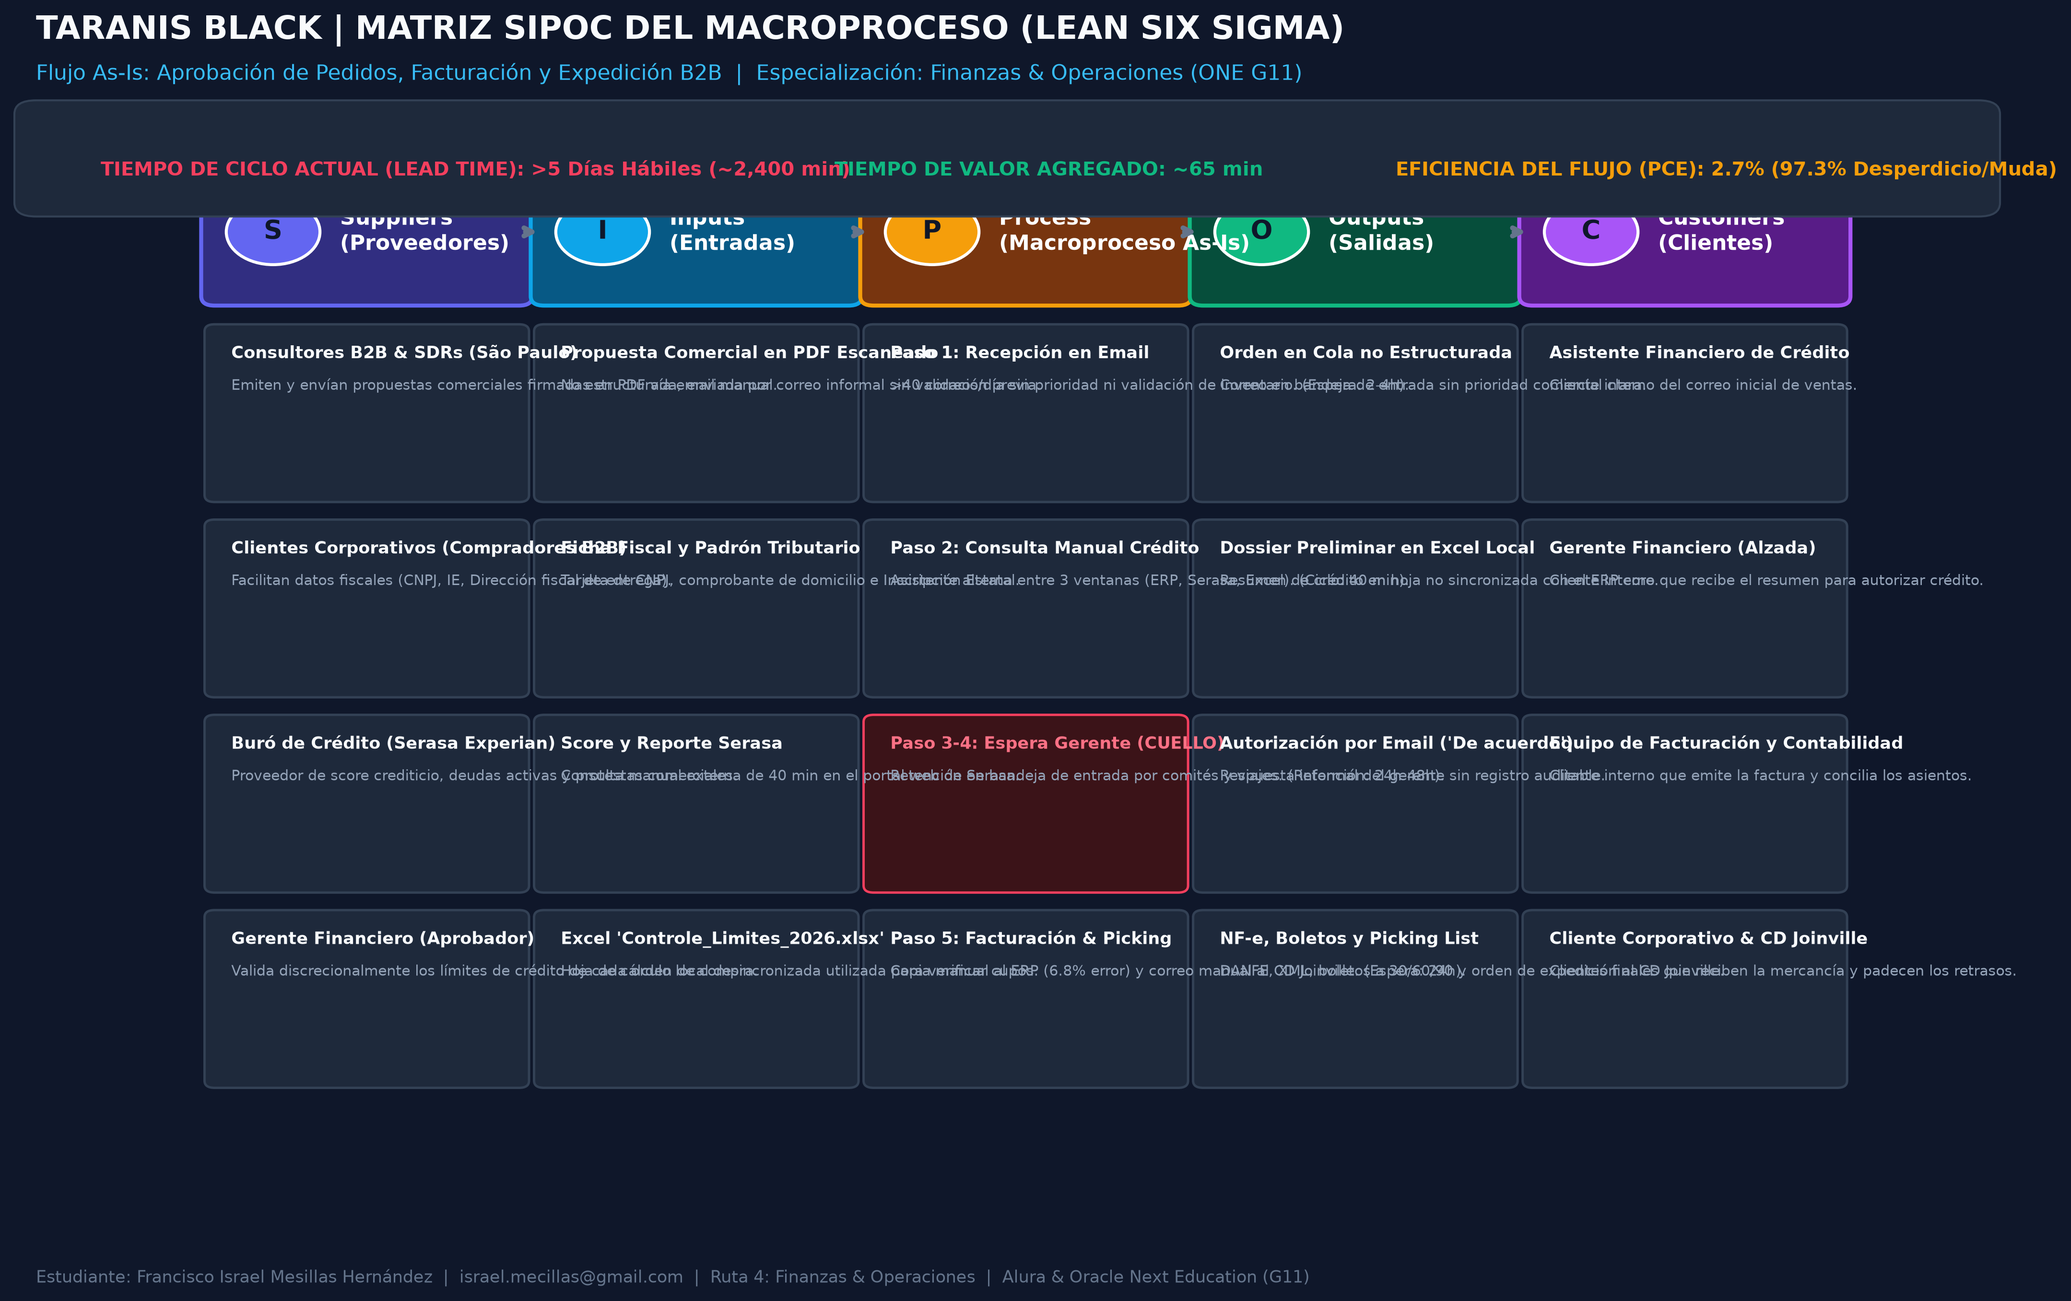
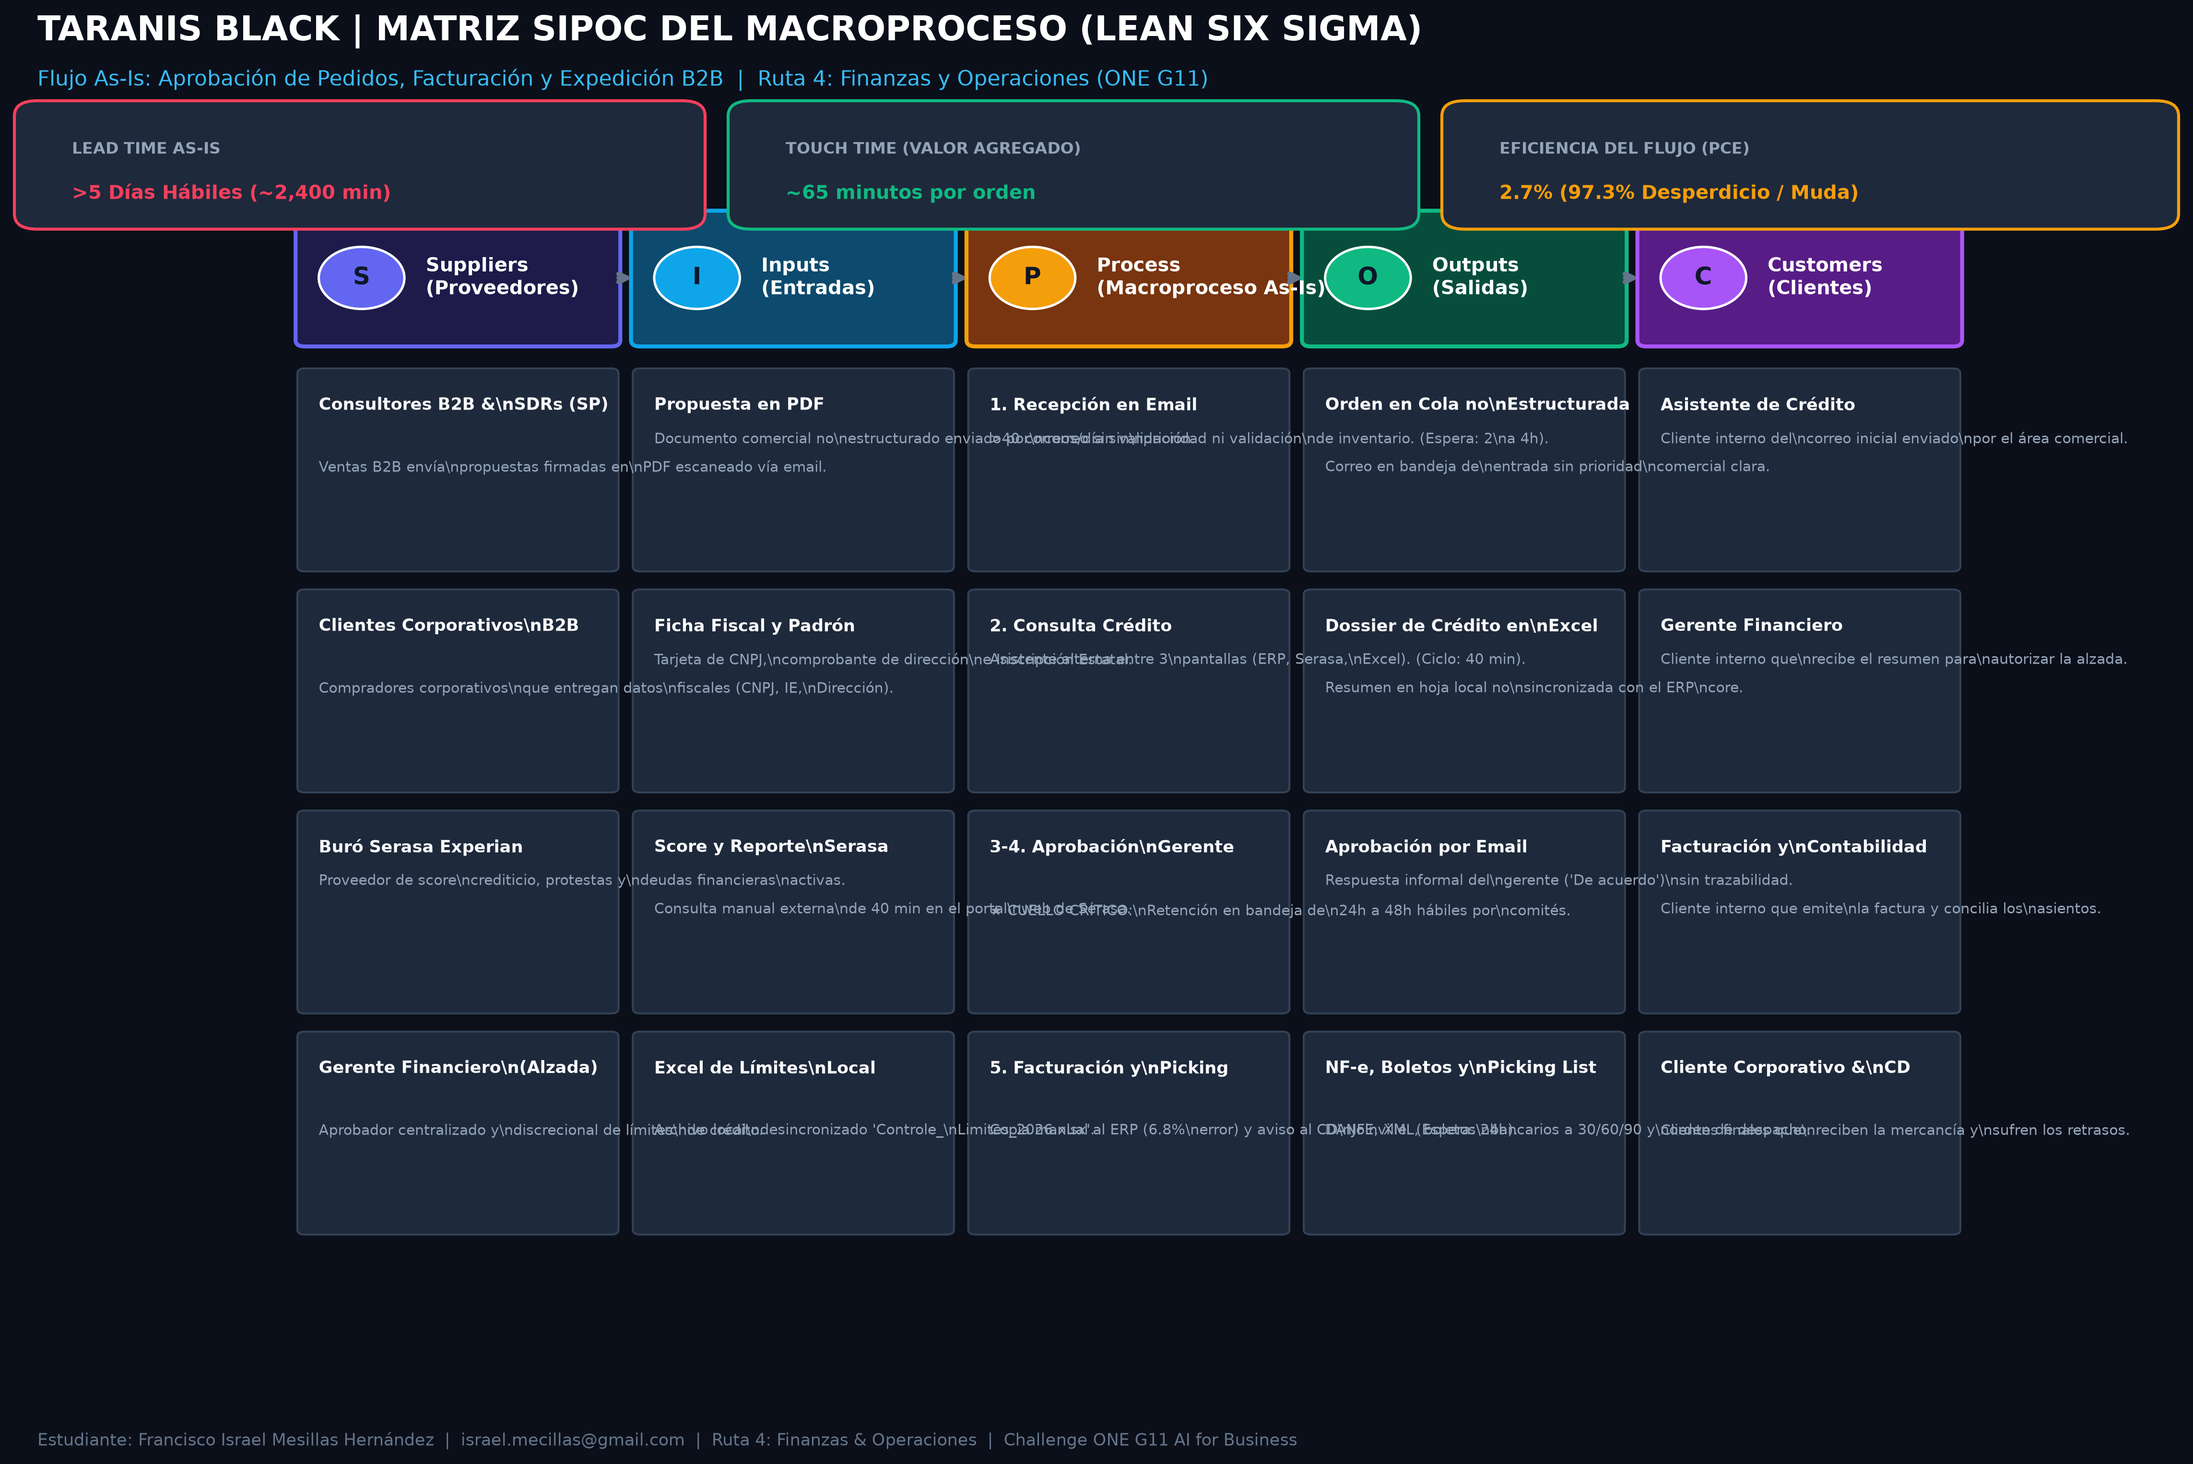
fix: corregir espaciado y ajuste de texto en imagen matriz SIPOC

Changed region(s): [[0.0, 0.0, 1.0, 0.836], [0.031, 0.9598, 0.6207, 0.9908]]

diff --git a/generate_sipoc_image.py b/generate_sipoc_image.py
@@ -1,177 +1,189 @@
 # -*- coding: utf-8 -*-
 """
-Generador de la imagen de alta resolución para la Matriz SIPOC de Taranis Black
-(Ruta 4: Finanzas y Operaciones - ONE G11)
+Script perfeccionado para generar la Matriz SIPOC sin traslape de texto.
+Usa textwrap para ajustar cada línea exactamente dentro del ancho de su columna.
 """
 import matplotlib.pyplot as plt
 import matplotlib.patches as patches
-import os
+import textwrap
 
-def generate_sipoc():
-    fig, ax = plt.subplots(figsize=(15, 9.5), dpi=300)
-    fig.patch.set_facecolor('#0f172a') # Dark slate background
-    ax.set_facecolor('#0f172a')
-    
-    # Header Information
-    fig.text(0.05, 0.94, "TARANIS BLACK | MATRIZ SIPOC DEL MACROPROCESO (LEAN SIX SIGMA)", 
-             fontsize=16, fontweight='bold', color='#f8fafc', family='sans-serif')
-    fig.text(0.05, 0.91, "Flujo As-Is: Aprobación de Pedidos, Facturación y Expedición B2B  |  Especialización: Finanzas & Operaciones (ONE G11)", 
+def generate_sipoc_perfect():
+    # Large high-res canvas (16 x 11 inches)
+    fig, ax = plt.subplots(figsize=(16, 10.5), dpi=300)
+    fig.patch.set_facecolor('#0b0f19')
+    ax.set_facecolor('#0b0f19')
+
+    # Title & Subtitle
+    fig.text(0.04, 0.95, "TARANIS BLACK | MATRIZ SIPOC DEL MACROPROCESO (LEAN SIX SIGMA)", 
+             fontsize=17, fontweight='bold', color='#ffffff', family='sans-serif')
+    fig.text(0.04, 0.92, "Flujo As-Is: Aprobación de Pedidos, Facturación y Expedición B2B  |  Ruta 4: Finanzas y Operaciones (ONE G11)", 
              fontsize=10.5, color='#38bdf8', family='sans-serif')
 
-    # Top KPI Diagnostic Bar
-    kpi_bar = patches.FancyBboxPatch((0.05, 0.82), 0.90, 0.065, boxstyle="round,pad=0.01",
-                                     fc='#1e293b', ec='#334155', transform=fig.transFigure)
-    fig.patches.append(kpi_bar)
-    
-    fig.text(0.08, 0.84, "TIEMPO DE CICLO ACTUAL (LEAD TIME): >5 Días Hábiles (~2,400 min)", 
-             fontsize=9.5, fontweight='bold', color='#f43f5e', family='sans-serif')
-    fig.text(0.42, 0.84, "TIEMPO DE VALOR AGREGADO: ~65 min", 
-             fontsize=9.5, fontweight='bold', color='#10b981', family='sans-serif')
-    fig.text(0.68, 0.84, "EFICIENCIA DEL FLUJO (PCE): 2.7% (97.3% Desperdicio/Muda)", 
-             fontsize=9.5, fontweight='bold', color='#f59e0b', family='sans-serif')
+    # Top KPI Diagnostic Badges (Separate cards so they never collide)
+    kpis = [
+        ("LEAD TIME AS-IS", ">5 Días Hábiles (~2,400 min)", "#f43f5e", 0.04, 0.28),
+        ("TOUCH TIME (VALOR AGREGADO)", "~65 minutos por orden", "#10b981", 0.35, 0.28),
+        ("EFICIENCIA DEL FLUJO (PCE)", "2.7% (97.3% Desperdicio / Muda)", "#f59e0b", 0.66, 0.30)
+    ]
+    for label, val, col, x, w in kpis:
+        kpi_patch = patches.FancyBboxPatch((x, 0.835), w, 0.065, boxstyle="round,pad=0.01",
+                                          fc='#1e293b', ec=col, lw=1.5, transform=fig.transFigure)
+        fig.patches.append(kpi_patch)
+        fig.text(x + 0.015, 0.875, label, fontsize=8, fontweight='bold', color='#94a3b8', family='sans-serif')
+        fig.text(x + 0.015, 0.845, val, fontsize=9.5, fontweight='bold', color=col, family='sans-serif')
 
-    # 5 Column Definitions
-    col_width = 1.82
-    gap = 0.15
-    start_x = 0.1
-    y_top = 8.0
+    # 5 Columns Setup
+    # Total width available: x from 0.4 to 9.6 -> width = 9.2 / 5 = 1.84
+    col_w = 1.72
+    col_gap = 0.16
+    start_x = 0.4
+    y_header = 7.7
     
-    columns_data = [
+    cols = [
         {
             "letter": "S",
             "name": "Suppliers\n(Proveedores)",
             "color": "#6366f1",
-            "header_bg": "#312e81",
+            "bg": "#1e1b4b",
             "items": [
-                ("Consultores B2B & SDRs (São Paulo)", "Emiten y envían propuestas comerciales firmadas en PDF vía email manual."),
-                ("Clientes Corporativos (Compradores B2B)", "Facilitan datos fiscales (CNPJ, IE, Dirección fiscal de entrega)."),
-                ("Buró de Crédito (Serasa Experian)", "Proveedor de score crediticio, deudas activas y protestas comerciales."),
-                ("Gerente Financiero (Aprobador)", "Valida discrecionalmente los límites de crédito de cada orden de compra.")
+                ("Consultores B2B & SDRs (SP)", "Ventas B2B envía propuestas firmadas en PDF escaneado vía email."),
+                ("Clientes Corporativos B2B", "Compradores corporativos que entregan datos fiscales (CNPJ, IE, Dirección)."),
+                ("Buró Serasa Experian", "Proveedor de score crediticio, protestas y deudas financieras activas."),
+                ("Gerente Financiero (Alzada)", "Aprobador centralizado y discrecional de límites de crédito.")
             ]
         },
         {
             "letter": "I",
             "name": "Inputs\n(Entradas)",
             "color": "#0ea5e9",
-            "header_bg": "#075985",
+            "bg": "#0c4a6e",
             "items": [
-                ("Propuesta Comercial en PDF Escaneado", "No estructurada, enviada por correo informal sin validación previa."),
-                ("Ficha Fiscal y Padrón Tributario", "Tarjeta de CNPJ, comprobante de domicilio e Inscripción Estatal."),
+                ("Propuesta en PDF", "Documento comercial no estructurado enviado por correo sin validación."),
+                ("Ficha Fiscal y Padrón", "Tarjeta de CNPJ, comprobante de dirección e Inscripción Estatal."),
                 ("Score y Reporte Serasa", "Consulta manual externa de 40 min en el portal web de Serasa."),
-                ("Excel 'Controle_Limites_2026.xlsx'", "Hoja de cálculo local desincronizada utilizada para verificar cupos.")
+                ("Excel de Límites Local", "Archivo local desincronizado 'Controle_Limites_2026.xlsx'.")
             ]
         },
         {
             "letter": "P",
             "name": "Process\n(Macroproceso As-Is)",
             "color": "#f59e0b",
-            "header_bg": "#78350f",
+            "bg": "#78350f",
             "items": [
-                ("Paso 1: Recepción en Email", ">40 correos/día sin prioridad ni validación de inventario. (Espera: 2-4h)."),
-                ("Paso 2: Consulta Manual Crédito", "Asistente alterna entre 3 ventanas (ERP, Serasa, Excel). (Ciclo: 40 min)."),
-                ("Paso 3-4: Espera Gerente (CUELLO)", "Retención en bandeja de entrada por comités y viajes. (Retención: 24h-48h)."),
-                ("Paso 5: Facturación & Picking", "Copia manual al ERP (6.8% error) y correo manual al CD Joinville. (Espera: 24h).")
+                ("1. Recepción en Email", ">40 correos/día sin prioridad ni validación de inventario.\n(Espera: 2 a 4h)."),
+                ("2. Consulta Crédito", "Asistente alterna entre 3 pantallas (ERP, Serasa, Excel).\n(Ciclo: 40 min)."),
+                ("3-4. Aprobación Gerente", "★ CUELLO CRÍTICO:\nRetención en bandeja de 24h a 48h hábiles por comités."),
+                ("5. Facturación y Picking", "Copia manual al ERP (6.8% error) y aviso al CD Joinville.\n(Espera: 24h).")
             ]
         },
         {
             "letter": "O",
             "name": "Outputs\n(Salidas)",
             "color": "#10b981",
-            "header_bg": "#064e3b",
+            "bg": "#064e3b",
             "items": [
                 ("Orden en Cola no Estructurada", "Correo en bandeja de entrada sin prioridad comercial clara."),
-                ("Dossier Preliminar en Excel Local", "Resumen de crédito en hoja no sincronizada con el ERP core."),
-                ("Autorización por Email ('De acuerdo')", "Respuesta informal del gerente sin registro auditable."),
-                ("NF-e, Boletos y Picking List", "DANFE, XML, boletos a 30/60/90 y orden de expedición al CD Joinville.")
+                ("Dossier de Crédito en Excel", "Resumen en hoja local no sincronizada con el ERP core."),
+                ("Aprobación por Email", "Respuesta informal del gerente ('De acuerdo') sin trazabilidad."),
+                ("NF-e, Boletos y Picking List", "DANFE, XML, boletos bancarios a 30/60/90 y orden de despacho.")
             ]
         },
         {
             "letter": "C",
             "name": "Customers\n(Clientes)",
             "color": "#a855f7",
-            "header_bg": "#581c87",
+            "bg": "#581c87",
             "items": [
-                ("Asistente Financiero de Crédito", "Cliente interno del correo inicial de ventas."),
-                ("Gerente Financiero (Alzada)", "Cliente interno que recibe el resumen para autorizar crédito."),
-                ("Equipo de Facturación y Contabilidad", "Cliente interno que emite la factura y concilia los asientos."),
-                ("Cliente Corporativo & CD Joinville", "Clientes finales que reciben la mercancía y padecen los retrasos.")
+                ("Asistente de Crédito", "Cliente interno del correo inicial enviado por el área comercial."),
+                ("Gerente Financiero", "Cliente interno que recibe el resumen para autorizar la alzada."),
+                ("Facturación y Contabilidad", "Cliente interno que emite la factura y concilia los asientos."),
+                ("Cliente Corporativo & CD", "Clientes finales que reciben la mercancía y sufren los retrasos.")
             ]
         }
     ]
 
-    for idx, col in enumerate(columns_data):
-        cx = start_x + idx * (col_width + gap)
+    for c_idx, c_data in enumerate(cols):
+        cx = start_x + c_idx * (col_w + col_gap)
         
-        # Column Header Box
-        head_box = patches.FancyBboxPatch((cx, y_top), col_width, 1.1, boxstyle="round,pad=0.08",
-                                          fc=col["header_bg"], ec=col["color"], lw=2)
-        ax.add_patch(head_box)
+        # Header Box
+        header_patch = patches.FancyBboxPatch((cx, y_header), col_w, 0.95, boxstyle="round,pad=0.05",
+                                              fc=c_data["bg"], ec=c_data["color"], lw=2)
+        ax.add_patch(header_patch)
         
-        # Badge Letter
-        badge = patches.Circle((cx + 0.35, y_top + 0.55), 0.28, fc=col["color"], ec='#ffffff', lw=1.5)
-        ax.add_patch(badge)
-        ax.text(cx + 0.35, y_top + 0.55, col["letter"], fontsize=13, fontweight='bold', 
+        # Circle Badge Letter
+        badge_circle = patches.Circle((cx + 0.32, y_header + 0.48), 0.24, fc=c_data["color"], ec='#ffffff', lw=1.2)
+        ax.add_patch(badge_circle)
+        ax.text(cx + 0.32, y_header + 0.48, c_data["letter"], fontsize=12, fontweight='bold', 
                 color='#0f172a', ha='center', va='center', family='sans-serif')
         
-        # Header Text
-        ax.text(cx + 0.75, y_top + 0.55, col["name"], fontsize=10.5, fontweight='bold', 
+        # Header Label
+        ax.text(cx + 0.68, y_header + 0.48, c_data["name"], fontsize=9.5, fontweight='bold', 
                 color='#ffffff', va='center', family='sans-serif')
-
-        # Cards inside Column
-        card_y = y_top - 0.25
-        card_height = 1.45
-        card_gap = 0.22
         
-        for item_title, item_desc in col["items"]:
-            card_y -= card_height
+        # 4 Cards per column
+        card_y = y_header - 0.2
+        card_h = 1.55
+        card_margin = 0.16
+        
+        for item_title, item_desc in c_data["items"]:
+            card_y -= card_h
             
-            # Determine card background (highlight process bottlenecks)
             is_bottleneck = "CUELLO" in item_title
-            bg_color = "#3b1318" if is_bottleneck else "#1e293b"
-            border_color = "#f43f5e" if is_bottleneck else "#334155"
+            c_bg = "#450a0a" if is_bottleneck else "#1e293b"
+            c_border = "#f43f5e" if is_bottleneck else "#334155"
+            c_lw = 2.0 if is_bottleneck else 1.0
             
-            card_box = patches.FancyBboxPatch((cx, card_y), col_width, card_height - 0.05, 
-                                              boxstyle="round,pad=0.06",
-                                              fc=bg_color, ec=border_color, lw=1.2)
-            ax.add_patch(card_box)
+            # Draw card container
+            box = patches.FancyBboxPatch((cx, card_y), col_w, card_h - 0.06, boxstyle="round,pad=0.04",
+                                         fc=c_bg, ec=c_border, lw=c_lw)
+            ax.add_patch(box)
             
-            # Card Title
-            title_color = "#fb7185" if is_bottleneck else "#f8fafc"
-            ax.text(cx + 0.1, card_y + card_height - 0.28, item_title, 
-                    fontsize=8.5, fontweight='bold', color=title_color, family='sans-serif')
+            # Wrap Title (max 21 chars per line)
+            title_wrapped = "\\n".join(textwrap.wrap(item_title, width=21))
+            t_color = "#fb7185" if is_bottleneck else "#f8fafc"
+            t_fontweight = 'bold'
             
-            # Card Description
-            ax.text(cx + 0.1, card_y + card_height - 0.55, item_desc, 
-                    fontsize=7.3, color='#94a3b8', family='sans-serif', wrap=True)
+            ax.text(cx + 0.08, card_y + card_h - 0.24, title_wrapped, 
+                    fontsize=8.5, fontweight=t_fontweight, color=t_color, family='sans-serif', va='top')
             
-            card_y -= card_gap
+            # Calculate height offset based on title lines
+            num_title_lines = len(title_wrapped.split("\\n"))
+            desc_offset = 0.24 + (num_title_lines * 0.22)
+            
+            # Wrap Description (max 25 chars per line)
+            desc_wrapped = "\\n".join(textwrap.wrap(item_desc, width=25))
+            d_color = "#fecdd3" if is_bottleneck else "#94a3b8"
+            
+            ax.text(cx + 0.08, card_y + card_h - desc_offset - 0.05, desc_wrapped, 
+                    fontsize=7.2, color=d_color, family='sans-serif', va='top')
+            
+            card_y -= card_margin
 
-    # Flow arrows connecting columns
+    # Connection Arrows between Headers
     for i in range(4):
-        arrow_x = start_x + (i + 1) * col_width + i * gap + gap/2
-        ax.annotate('', xy=(arrow_x + 0.06, y_top + 0.55), xytext=(arrow_x - 0.06, y_top + 0.55),
+        ax_arrow = start_x + (i + 1) * col_w + i * col_gap + (col_gap / 2)
+        ax.annotate('', xy=(ax_arrow + 0.06, y_header + 0.48), xytext=(ax_arrow - 0.06, y_header + 0.48),
                     arrowprops=dict(arrowstyle="->", color='#64748b', lw=2.5))
 
-    # Axis Limits
+    # Axis config
     ax.set_xlim(0, 10)
-    ax.set_ylim(0.5, 9.5)
+    ax.set_ylim(0.2, 9.2)
     ax.axis('off')
 
     # Footer Metadata
-    fig.text(0.05, 0.03, "Estudiante: Francisco Israel Mesillas Hernández  |  israel.mecillas@gmail.com  |  Ruta 4: Finanzas & Operaciones  |  Alura & Oracle Next Education (G11)", 
+    fig.text(0.04, 0.02, "Estudiante: Francisco Israel Mesillas Hernández  |  israel.mecillas@gmail.com  |  Ruta 4: Finanzas & Operaciones  |  Challenge ONE G11 AI for Business", 
              fontsize=8.5, color='#64748b', family='sans-serif')
 
-    # Save PNG files
-    out_root = r"C:\Users\52477\Desktop\challengeAIbuilder\matriz_sipoc_taranis_black.png"
-    out_lean = r"C:\Users\52477\Desktop\challengeAIbuilder\02_Diagnostico_Lean_Operaciones\matriz_sipoc_taranis_black.png"
-    out_art = r"C:\Users\52477\.gemini\antigravity\brain\65b23f9f-a310-40e5-923f-54f1f937153f\matriz_sipoc_taranis_black.png"
+    # Save to all target paths
+    out1 = r"C:\Users\52477\Desktop\challengeAIbuilder\matriz_sipoc_taranis_black.png"
+    out2 = r"C:\Users\52477\Desktop\challengeAIbuilder\02_Diagnostico_Lean_Operaciones\matriz_sipoc_taranis_black.png"
+    out3 = r"C:\Users\52477\.gemini\antigravity\brain\65b23f9f-a310-40e5-923f-54f1f937153f\matriz_sipoc_taranis_black.png"
 
-    plt.savefig(out_root, dpi=300, bbox_inches='tight', facecolor=fig.get_facecolor())
-    plt.savefig(out_lean, dpi=300, bbox_inches='tight', facecolor=fig.get_facecolor())
-    plt.savefig(out_art, dpi=300, bbox_inches='tight', facecolor=fig.get_facecolor())
+    plt.savefig(out1, dpi=300, bbox_inches='tight', facecolor=fig.get_facecolor())
+    plt.savefig(out2, dpi=300, bbox_inches='tight', facecolor=fig.get_facecolor())
+    plt.savefig(out3, dpi=300, bbox_inches='tight', facecolor=fig.get_facecolor())
     plt.close()
-    
-    print(f"SIPOC Image generated at:\n- {out_root}\n- {out_lean}\n- {out_art}")
+    print("SIPOC Image successfully generated without text overlap!")
 
 if __name__ == '__main__':
-    generate_sipoc()
+    generate_sipoc_perfect()
